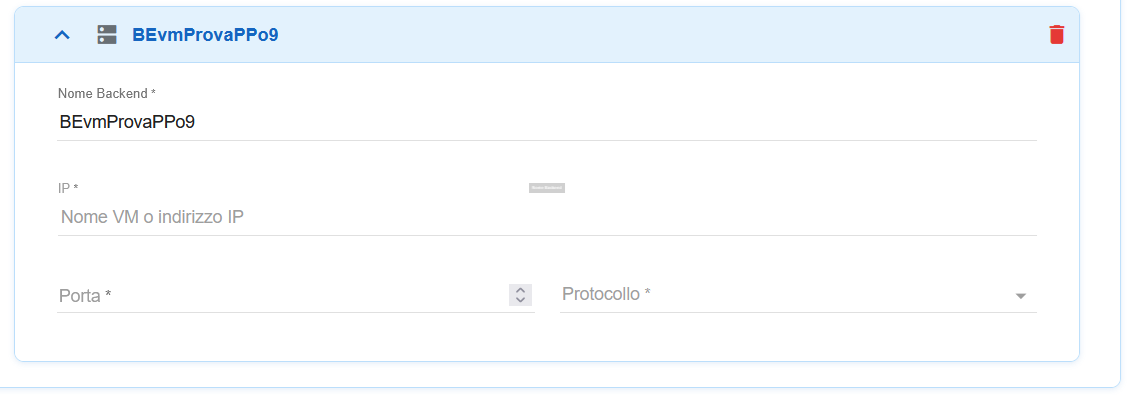
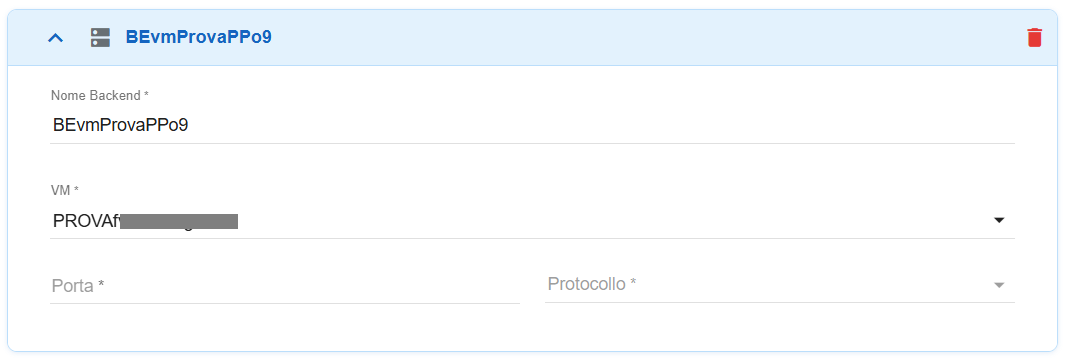
260514commit.1

diff --git a/docs/Come_fare_per/15.6_LoadBalance CON LBAASr.rst b/docs/Come_fare_per/15.6_LoadBalance CON LBAASr.rst
@@ -1,0 +1,64 @@
+
+**Load Balancer**
+*****************
+
+Il load balancing è una tecnologia concepita per distribuire il carico di lavoro tra diversi server o applicazioni. 
+L’obiettivo è ottimizzare le prestazioni globali, il rendimento e la capacità dell’infrastruttura.
+
+Il modello di Servizio di Load Balancing è il seguente
+
+.. image:: img/15.6_LB_overview.png
+
+Un bilanciatore si compone di 4 elementi:
+
+- **Load balancer**: definisce l’indirizzo ip di frontend e la porta su cui avviene il bilanciamento del carico; ha riferimenti al target group e al listener;
+
+- **Listener**: descrive la tipologia di traffico in ingresso al load balancer e le regole di inoltro alle macchine bilanciate (SSP Passthrough, cifratura lato client, cifratura lato client e lato server);
+
+- **Target Group**: definisce l’algoritmo di bilanciamento, l’insieme degli host bilanciati (Target) e l’health monitor attraverso cui controllarne lo stato;
+
+- **Health monitor**: controlla lo stato degli host bilanciati (raggiungibili, non raggiungibili).
+
+
+La configurazione di un servizio di load balancing passa attraverso:
+
+- la creazione di un health monitor custom (o la selezione di un health monitor predefinito);
+
+- la creazione e il popolamento di un target group;
+
+- la creazione di un listener custom (o la selezione di un listener predefinito);
+
+- la creazione di un load balancer;
+
+- la creazione di una regola per ciascuno dei security group delle vm bilanciate.
+
+|
+
+**Lavorare con i Load Balancer**
+********************************
+
+La funzione rientra nel menù **Servizi**. I Load Balancer sono visualizzabili dalla parte
+sinistra dello schermo, cliccando sulla label **Load Balancer** sotto **Reti e Sicurezza**
+
+.. image:: img/15.6_LoadBalancer1.png
+
+|
+
+A seguito di un click su Load Balancer, il sistema popolerà la parte destra della pagina web con la lista dei Load Balancer, se presenti. 
+In alternativa verrà visualizza la scritta “*Non sono presenti Load Balancer*""
+
+.. image:: img/15.6_LoadBalancer2.png
+
+|
+
+Nel caso in cui l'account in uso non sia configurato per l'utilizzo dei Load Balancer, comparirà il seguente messaggio:
+
+.. image:: img/15.6_LoadBalancer3.png
+
+.. toctree::
+   :maxdepth: 2
+ 
+   15.61_Creare_LBAAS.rst
+   15.62_Visualizzare_LBAAS.rst
+   15.64_Modificare_LBAAS.rst
+   15.67_Cancellare_LBAAS.rst

diff --git a/docs/Notes/index_ReleaseNotes.rst b/docs/Notes/index_ReleaseNotes.rst
@@ -1544,6 +1544,33 @@ Service Portal 1.8.0 (2020-04-10)
 **Cloud Management Platform**
 *****************************
 
+CMP Nivola 1.18.5 - patch (2026-05-14)
+--------------------------------------
+
+*Nuove funzionalità e improvement*
+
+- ECAAS definition, capability for SDP
+
+- ECAAS namespace: check unique namespace, check codice ente
+
+- Batch import codice linee cliente
+
+- Aggiunte informazioni circa la disponibilità di indirizzi IP tra i dettagli delle site-network di Nivola
+
+- API che restituisce, dato un account, l'elenco dei plugintype disponibili
+
+- LBAAS Ip alla creazione
+
+*Bug fixing*
+
+- Fix get_normalized_os per image Rocky (metriche vm_None_<hypervisor>)
+
+- Fix create image: check definition service type ComputeImageSync
+
+- CLI msg warning before creating site network
+
+|
+
 CMP Nivola 1.18.4 - patch (2026-04-23)
 --------------------------------------
 

diff --git a/docs/Future/future_Release.rst b/docs/Future/future_Release.rst
@@ -23,31 +23,9 @@
 **Cloud Management Platform**
 *****************************
 
-*Versione 1.18.5 (patch)*
+*Versione 1.18.x (patch)*
 
-*Data prevista: giovedì 14 maggio 2026*
-
-*Nuove funzionalità e improvement*
-
-- ECAAS definition, capability for SDP
-
-- ECAAS namespace: check unique namespace, check codice ente
-
-- Batch import codice linee cliente
-
-- Aggiunte informazioni circa la disponibilità di indirizzi IP tra i dettagli delle site-network di Nivola
-
-- API che restituisce, dato un account, l'elenco dei plugintype disponibili
-
-- LBAAS Ip alla creazione
-
-*Bug fixing*
-
-- Fix get_normalized_os per image Rocky (metriche vm_None_<hypervisor>)
-
-- Fix create image: check definition service type ComputeImageSync
-
-- CLI msg warning before creating site network
+*Data prevista: giugno 2026*
 
 |
 

diff --git a/docs/Come_fare_per/15.61a_Creare_LBAAS_dati_input.rst b/docs/Come_fare_per/15.61a_Creare_LBAAS_dati_input.rst
@@ -108,7 +108,7 @@ La sezione dell'alias espansa sarà la seguente:
 
 Compilare i campi indicati:
 
-- inserire manualmente il nome della VM oppure l'indirizzo IP
+- selezionare la VM dal relativo menù a tendina
 
 - inserire manualmente la porta
 
